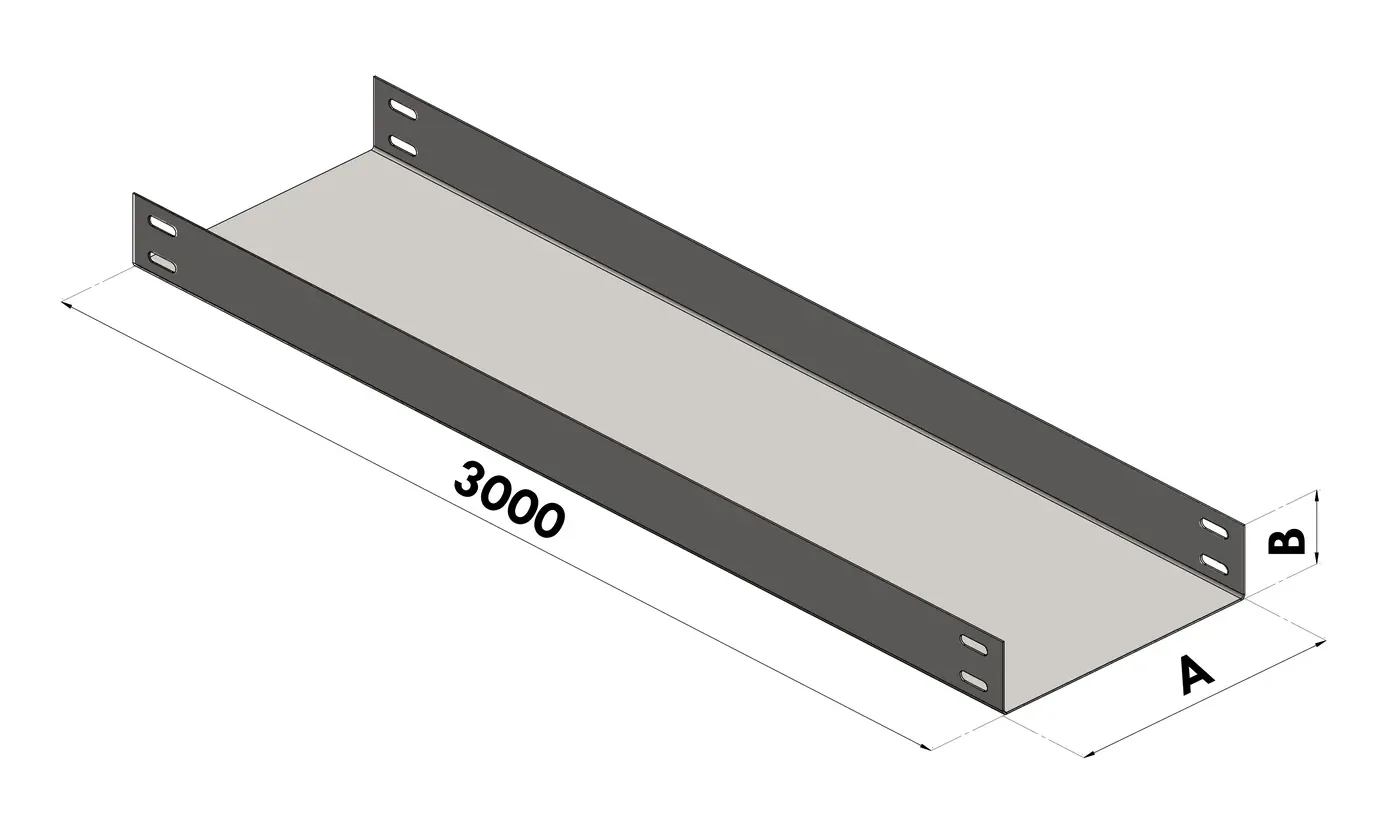
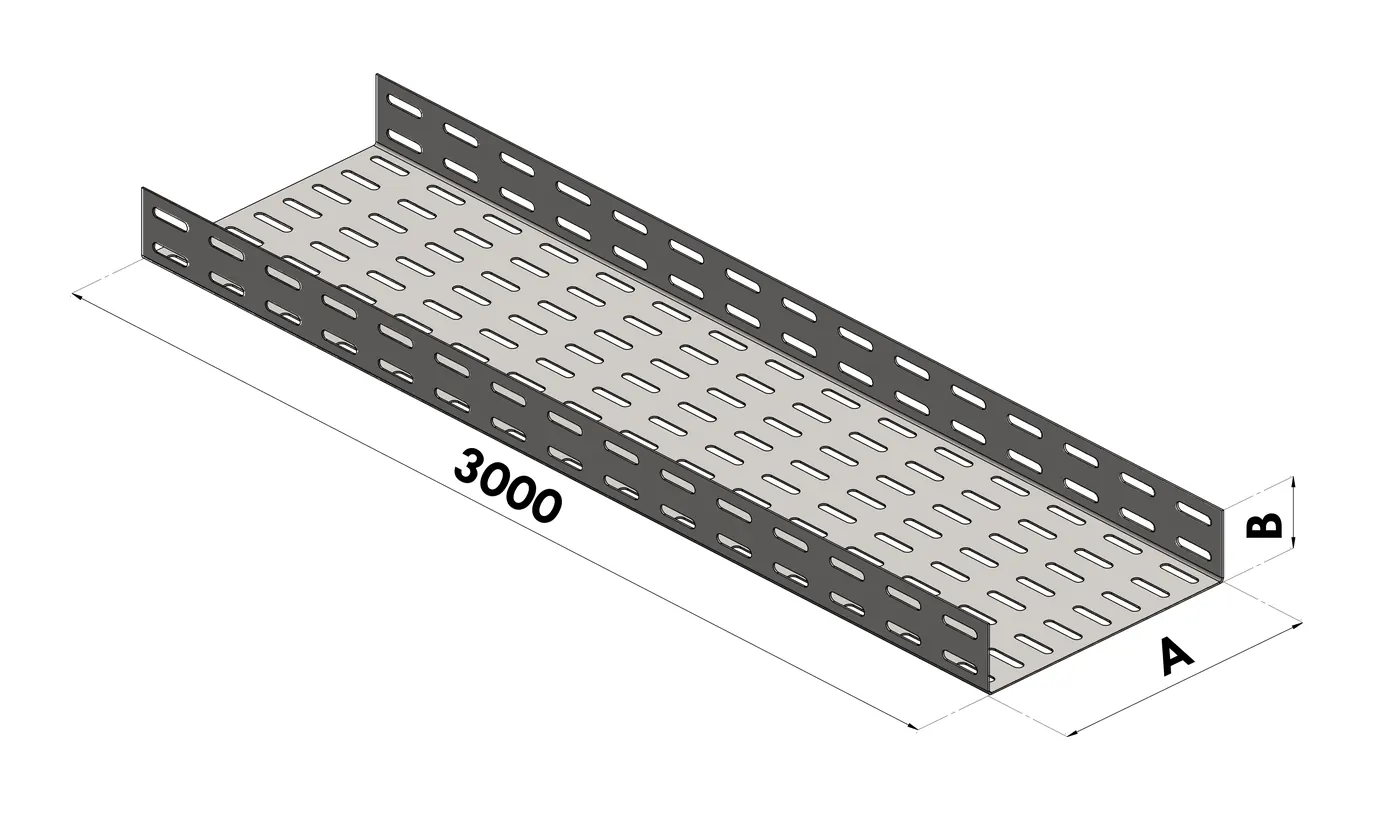
feat: galería de miniaturas por variante en la bandeja portacables
Cuatro renders nuevos (mismo recorte y escala) conectan una miniatura
por variante (Lisa U/C, Perforada U/C, Tapa) vía images.bySku en
lib/catalog.json. La imagen principal del producto
(bandeja-portacables.webp) pasa a ser la CT3111 perforada,
reemplazando el binario en la misma ruta — resuelve grid y ficha sin
tocar JSON ni regenerar search-index.json (se genera en el prebuild).

ProductSheet.jsx: cuando el producto tiene images.bySku, la fila de
miniaturas cambia la variante en el configurador (setSelectedVariant),
no solo la imagen — mismo estado que el select "Modelo / variante", en
los dos sentidos. Sin variante elegida, muestra la primary y ninguna
miniatura queda encendida. Los productos sin bySku (los otros 71)
siguen con el galleryTab de siempre; los dos caminos no se
unificaron.

getProductImageAlt (lib/product-helpers.js) acepta { variantLabel }
para dar alt distinto a cada miniatura.

_manifest.csv: la línea de CT3011 se corrige de primaria a variante;
tres líneas nuevas para CT3012, CT3111 (ahora primaria) y CT3112.

Verificado manualmente: intercambio de imagen en los dos sentidos
(miniatura ↔ select), kit-de-uniones y curva-horizontal-90
(galleryTab antiguo) sin cambios, carrito con dos variantes distintas
guardando imágenes diferentes y apareciendo en la Lista de
especificación impresa.

diff --git a/app/catalogo/[categoria]/[produto]/ProductSheet.jsx b/app/catalogo/[categoria]/[produto]/ProductSheet.jsx
@@ -61,14 +61,22 @@ export default function ProductSheet({ product, category, globalSpecs, thickness
   // kit-de-uniones: a imagem carrega a tornillería do ala escolhido — troca
   // sozinha, sem clique. As demais páginas seguem a galeria peça/tapa normal.
   const kitAla = product.images?.byAla ? String(selectedAxes.ala ?? '') : null
+  // bandeja-portacables: uma miniatura por variante (CT3011…CT3211), não o
+  // toggle peça/tapa fixo. Produto sem images.bySku não entra por aqui —
+  // os outros 71 continuam no galleryTab de sempre, sem mudar.
+  const hasBySku = !!product.images?.bySku
   const mainImageSrc = kitAla
     ? (product.images.byAla[kitAla] ?? product.images.primary)
     : tapaImageMissing
       ? null // tapa sem render: vazio, nunca a foto da peça — é a troca que comunica a variante
-      : (galleryTab === 'tapa' && product.images?.tapa ? product.images.tapa : product.images?.primary)
+      : hasBySku
+        ? (product.images.bySku[selectedVariant?.sku] ?? product.images.primary)
+        : (galleryTab === 'tapa' && product.images?.tapa ? product.images.tapa : product.images?.primary)
   const mainImageAlt = kitAla
     ? getProductImageAlt(product, { ala: kitAla })
-    : getProductImageAlt(product, galleryTab === 'tapa' && product.images?.tapa ? 'tapa' : 'primary')
+    : hasBySku
+      ? getProductImageAlt(product, selectedVariant ? { variantLabel: selectedVariant.label } : 'primary')
+      : getProductImageAlt(product, galleryTab === 'tapa' && product.images?.tapa ? 'tapa' : 'primary')
 
   const { addItem, items } = useCart()
 
@@ -269,34 +277,67 @@ export default function ProductSheet({ product, category, globalSpecs, thickness
               )}
             </div>
 
-            {/* Galería peza/tapa — a tapa se cotiza aparte, dos piezas distintas */}
-            {product.images?.tapa && (
-              <div className="flex gap-2">
-                {[
-                  { id: 'primary', label: 'Pieza', src: product.images.primary },
-                  { id: 'tapa',    label: 'Tapa',  src: product.images.tapa },
-                ].map(thumb => (
-                  <button
-                    key={thumb.id}
-                    onClick={() => setGalleryTab(thumb.id)}
-                    className={`flex-1 rounded-lg border overflow-hidden ${
-                      galleryTab === thumb.id ? 'border-text-primary/40' : 'border-border-subtle'
-                    }`}
-                  >
-                    <div className="bg-surface-elevated aspect-square flex items-center justify-center">
-                      <img
-                        src={thumb.src}
-                        alt={getProductImageAlt(product, thumb.id)}
-                        width={80}
-                        height={80}
-                        loading="lazy"
-                        className="w-full h-full object-contain p-1"
-                      />
-                    </div>
-                    <div className="text-[10px] text-text-muted py-0.5">{thumb.label}</div>
-                  </button>
-                ))}
+            {/* Galería de variantes (bandeja-portacables) — uma miniatura por SKU do
+                mapa images.bySku, na ordem de `variants`. Clicar seleciona a variante
+                no configurador, não só troca a imagem: é o mesmo estado do select
+                "Modelo / variante" abaixo, nos dois sentidos. */}
+            {hasBySku ? (
+              <div className="flex gap-1.5">
+                {variants.filter(v => product.images.bySku[v.sku]).map(v => {
+                  const sel = selectedVariant?.sku === v.sku
+                  return (
+                    <button
+                      key={v.sku}
+                      onClick={() => setSelectedVariant(v)}
+                      className={`flex-1 rounded-lg border overflow-hidden ${
+                        sel ? 'border-text-primary/40' : 'border-border-subtle'
+                      }`}
+                    >
+                      <div className="bg-surface-elevated aspect-square flex items-center justify-center">
+                        <img
+                          src={product.images.bySku[v.sku]}
+                          alt={getProductImageAlt(product, { variantLabel: v.label })}
+                          width={80}
+                          height={80}
+                          loading="lazy"
+                          className="w-full h-full object-contain p-1"
+                        />
+                      </div>
+                      <div className="text-[10px] text-text-muted py-0.5 leading-tight">{v.label.replace('Tipo ', '')}</div>
+                    </button>
+                  )
+                })}
               </div>
+            ) : (
+              /* Galería peza/tapa — a tapa se cotiza aparte, dos piezas distintas */
+              product.images?.tapa && (
+                <div className="flex gap-2">
+                  {[
+                    { id: 'primary', label: 'Pieza', src: product.images.primary },
+                    { id: 'tapa',    label: 'Tapa',  src: product.images.tapa },
+                  ].map(thumb => (
+                    <button
+                      key={thumb.id}
+                      onClick={() => setGalleryTab(thumb.id)}
+                      className={`flex-1 rounded-lg border overflow-hidden ${
+                        galleryTab === thumb.id ? 'border-text-primary/40' : 'border-border-subtle'
+                      }`}
+                    >
+                      <div className="bg-surface-elevated aspect-square flex items-center justify-center">
+                        <img
+                          src={thumb.src}
+                          alt={getProductImageAlt(product, thumb.id)}
+                          width={80}
+                          height={80}
+                          loading="lazy"
+                          className="w-full h-full object-contain p-1"
+                        />
+                      </div>
+                      <div className="text-[10px] text-text-muted py-0.5">{thumb.label}</div>
+                    </button>
+                  ))}
+                </div>
+              )
             )}
 
             {/* Diagrama de apoio: corte transversal tipo U / tipo C (só bandeja-portacables) —

diff --git a/lib/product-helpers.js b/lib/product-helpers.js
@@ -39,11 +39,12 @@ export function parseMinThicknessRule(rule) {
 }
 
 // ─── Alt text de imagem — gerado do nome/subtitle da página, nunca do slug ──
-// variant: 'primary' | 'tapa' | { ala: '75' }
+// variant: 'primary' | 'tapa' | { ala: '75' } | { variantLabel: 'Perforada Tipo C' }
 export function getProductImageAlt(product, variant = 'primary') {
   const base = `${product.name} BGA${product.subtitle ? ` — ${product.subtitle}` : ''}`
   if (variant === 'tapa') return `Tapa para ${base}`
   if (variant && typeof variant === 'object' && variant.ala) return `${base} — kit para ala ${variant.ala} mm`
+  if (variant && typeof variant === 'object' && variant.variantLabel) return `${base} — ${variant.variantLabel}`
   return base
 }
 
